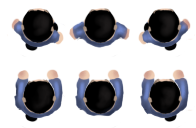
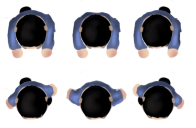
add animation for workmate and boss

diff --git a/app/scripts/feierabend/game.js b/app/scripts/feierabend/game.js
@@ -71,7 +71,7 @@ define(['scripts/feierabend/scene.js',
                 currentLevel.push({type: 'wall', id:'wall_' + i + '_' + maxY, x: i, y: maxY});
             }
 
-            for(var v=1; i <= maxY-1;i++) {
+            for(var v=1; v <= maxY-1;v++) {
                 currentLevel.push({type: 'wall', id:'wall_' + '0' + '_' + v, x: 0, y: v});
                 currentLevel.push({type: 'wall', id:'wall_' + maxX + '_' + v, x: maxX, y: v});
             }
@@ -99,7 +99,7 @@ define(['scripts/feierabend/scene.js',
         var pauseScene;
         var winScene;
         var currentLevel = null;
-        var currentLevelNum = 1;
+        var currentLevelNum = 0;
 
 
 
@@ -226,22 +226,22 @@ define(['scripts/feierabend/scene.js',
                     this.resetAssets();
                     // creates Level with the index "currentLevel"
                     // Level objects are defined in level.js in "levels"
-					gameScene.container.removeChildren();
-          //noinspection AmdModulesDependencies
-					var bgSprite = new PIXI.Sprite(loader.resources.background.texture);
-					bgSprite.width = gameWidth;
-					bgSprite.height = gameHeight;
-					gameScene.container.addChild(bgSprite);
-					levelText.x = 10;
-					levelText.y = 20;
-					gameScene.container.addChild(levelText);
-					grid = createGrid(gridSize, gameWidth, gameHeight);
+                    gameScene.container.removeChildren();
+                    //noinspection AmdModulesDependencies
+                    var bgSprite = new PIXI.Sprite(loader.resources.background.texture);
+                    bgSprite.width = gameWidth;
+                    bgSprite.height = gameHeight;
+                    gameScene.container.addChild(bgSprite);
+                    levelText.x = 10;
+                    levelText.y = 20;
+                    gameScene.container.addChild(levelText);
+                    grid = createGrid(gridSize, gameWidth, gameHeight);
                     currentLevel = createLevel(levels[currentLevelNum], loader, this, gameScene, renderer, score);
                     $levelInfo.text("Level: " + (currentLevelNum + 1));
                     player = currentLevel.player; // player Object
                     workmates = currentLevel.workmates; // workmates as Array
                     boss = currentLevel.boss;
-					score = currentLevel.score;
+					          score = currentLevel.score;
                 }
             },
 
@@ -258,7 +258,7 @@ define(['scripts/feierabend/scene.js',
 
                 this.load();
 				this.initLevel(currentLevelNum);
-				
+
                 countDown.start();
 
 
@@ -319,21 +319,6 @@ define(['scripts/feierabend/scene.js',
                                 workmate.move();
                             });
                             document.querySelector('.debug-grid').innerHTML = grid.visualize();
-
-                            // Pause the game with ESC
-                            $('html').on("keydown", function (event) {
-                                var canvas = $('canvas');
-                                var menu = $('.menu');
-                                if (event.which == '27') {
-                                    // close the game
-                                    canvas.slideUp(600, function () {
-                                        // Then open the Menu
-                                        menu.slideDown(600, function () {
-                                        });
-                                    });
-                                }
-                            });
-
                         });
                     }
                     break;

diff --git a/app/scripts/feierabend/workmate.js b/app/scripts/feierabend/workmate.js
@@ -4,7 +4,8 @@ define(['scripts/feierabend/viewable.js',
     return function createWorkmate(id, texture, game, enterGrid) {
         var followingPlayer = null;
         var queuePosition = 0;
-
+        var tilingSprite = new PIXI.extras.TilingSprite(texture, 50, 50);
+        var animationStep = 0;
 
         var Workmate = {
             changeQueuePos: function changeQueuePos(change) {
@@ -13,6 +14,7 @@ define(['scripts/feierabend/viewable.js',
             },
             stopFollowing: function stopFollowing() {
                 followingPlayer = null;
+                tilingSprite.tilePosition.y = 50;
             },
             follow: function follow(player) {
 
@@ -20,13 +22,27 @@ define(['scripts/feierabend/viewable.js',
                 queuePosition = player.workmatesFollowing.length-1;
                 followingPlayer = player;
             },
+            animate: function animate(animation) {
+                var animationFrame = animationStep++ % 3;
+
+                tilingSprite.tilePosition.x = animationFrame * 50;
+
+                if(animation === 'walking') {
+                    tilingSprite.tilePosition.y = 50;
+                } else {
+                    tilingSprite.tilePosition.y = 0;
+                }
+
+            },
             move: function move() {
                 if(followingPlayer) {
+                    this.animate('walkingPolonaise');
                     var queuePosDirection = followingPlayer.getPathMovement(queuePosition);
                     var queuePosMovement = followingPlayer.getPathMovement(queuePosition+1);
                     this.setRotationByDirection(queuePosDirection.direction);
                     this.moveSpriteTo(this.getSprite(), queuePosMovement.tile);
                 }
+                //this.animate('walking');
             },
         };
 
@@ -45,6 +61,17 @@ define(['scripts/feierabend/viewable.js',
         };
 
         workmateInstance = $.extend({}, createCollectable(id, texture, game, collideFn, enterGrid), workmateInstance, createMovable(game));
+
+        //standing position
+
+
+        tilingSprite.tileScale.x = 0.78;
+        tilingSprite.tileScale.y = 0.78;
+        tilingSprite.tilePosition.x = 100;
+        tilingSprite.tilePosition.y = 50;
+
+        workmateInstance.changeSprite(tilingSprite);
+
         return workmateInstance;
     };
 

diff --git a/app/scripts/feierabend/boss.js b/app/scripts/feierabend/boss.js
@@ -1,6 +1,8 @@
 define(['scripts/feierabend/viewable.js',
     'scripts/feierabend/movable.js'], function (createViewable, createMovable) {
     return function createBoss(texture, game, enterGrid) {
+        var tilingSprite = new PIXI.extras.TilingSprite(texture, 50, 50);
+        var animationStep = 0;
         var collideFn = function collideFn(collideObj, thisObj) {
             /*if (collideObj.id === 'player') {
                 if(followingPlayer) {
@@ -16,6 +18,11 @@ define(['scripts/feierabend/viewable.js',
            /* changeDirection: function changeDirection() {
                 this.setRandomDirection();
             },*/
+            animate: function animate() {
+                var animationFrame = animationStep++ % 3;
+
+                tilingSprite.tilePosition.x = animationFrame * 50;
+            },
             move: function move() {
                 if(hasMovedRecently) {
                     this.setRandomDirection();
@@ -23,6 +30,7 @@ define(['scripts/feierabend/viewable.js',
                 } else {
                     this.moveSprite(this.getSprite());
                     hasMovedRecently = true;
+                    this.animate();
                 }
 
             },
@@ -33,6 +41,15 @@ define(['scripts/feierabend/viewable.js',
 
         var bossInstance = Object.create(Boss);
         bossInstance = $.extend({}, viewable, bossInstance, createMovable(game));
+
+
+        tilingSprite.tileScale.x = 0.78;
+        tilingSprite.tileScale.y = 0.78;
+        tilingSprite.tilePosition.x = 100;
+        tilingSprite.tilePosition.y = 0;
+
+        bossInstance.changeSprite(tilingSprite);
+
         return bossInstance;
     };
 

diff --git a/app/scripts/feierabend/level.js b/app/scripts/feierabend/level.js
@@ -157,11 +157,7 @@ define(['scripts/feierabend/player.js',
                             x: object.x,
                             y: object.y
                         });
-                        var tilingSprite = new PIXI.extras.TilingSprite(texture, 60, 60);
 
-
-                        newWorkmate.changeSprite(new PIXI.Sprite(loader.resources.wall.texture));
-                        newWorkmate.changeSprite(tilingSprite);
 
                         /*tilingSprite.tilePosition.x += 1;
                         tilingSprite.tilePosition.y += 1;*/

diff --git a/app/scripts/feierabend/viewable.js b/app/scripts/feierabend/viewable.js
@@ -4,6 +4,7 @@
 define([], function () {
     return function createViewable(id, texture, grid, gridPos) {
         var sprite;
+        var animation;
         //init with texture
 
         var Viewable = {
@@ -29,6 +30,7 @@ define([], function () {
 
                 sprite.position.x = this.enteredGridTile.getPos().x + sprite.width / 2;
                 sprite.position.y = this.enteredGridTile.getPos().y + sprite.height / 2;
+                return sprite;
             },
             init: function init() {
                 if (texture) {
